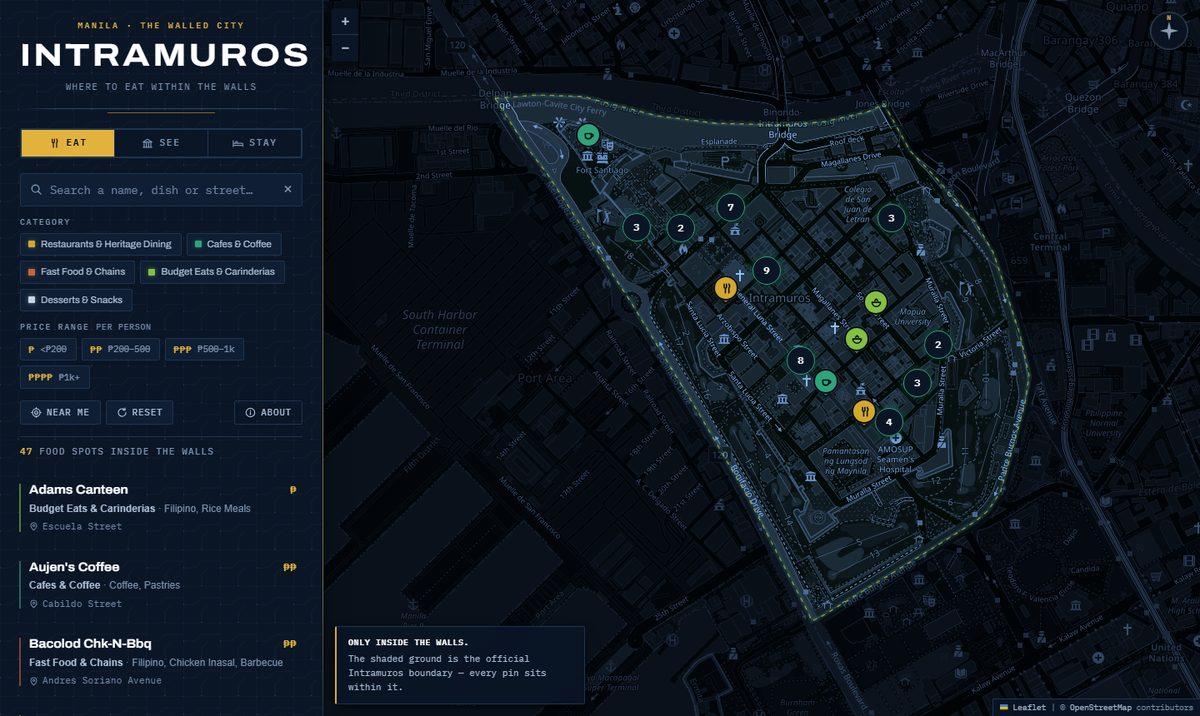
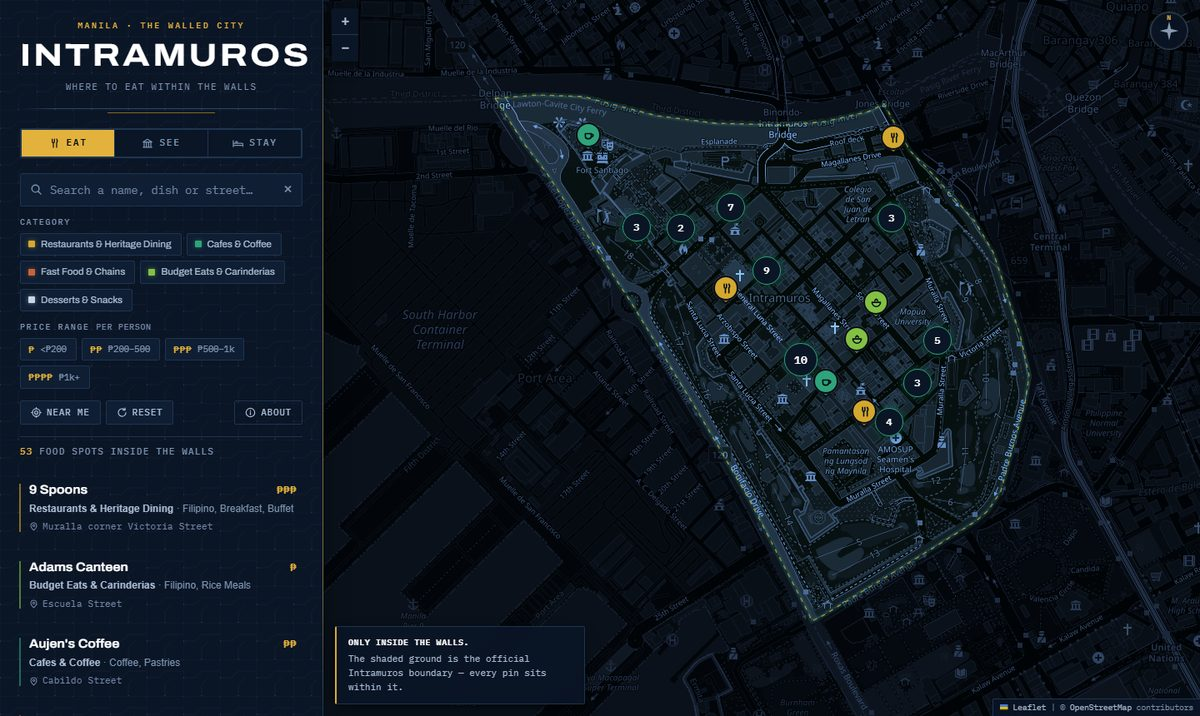
New Updates

diff --git a/data/food-spots.js b/data/food-spots.js
@@ -7,7 +7,10 @@
  * boundary polygon in data/intramuros-boundary.js.
  *
  * Coordinates and names come from an Overpass API query constrained to that
- * boundary (see DATA.md for the exact query). Nothing here was hand-placed.
+ * boundary (see DATA.md for the exact query), with a small number of manually
+ * researched additions — in-house restaurants at The Bayleaf hotel that have no
+ * separate OSM node and so share the hotel building's coordinates. Each such
+ * record says so in its blurb and is still gated by the same boundary check.
  *
  * Price tiers are INDICATIVE estimates, not quoted prices. See PRICE_TIERS below
  * and the methodology section of DATA.md.
@@ -39,6 +42,12 @@ const DATA_REVIEWED = '2026-09-03';
 
 const FOOD_SPOTS = [
   {
+    id: 'nine-spoons', name: '9 Spoons', category: 'heritage', priceTier: 3,
+    cuisine: ['Filipino', 'Breakfast', 'Buffet'], street: 'Muralla corner Victoria Street', area: 'The Bayleaf Intramuros, 9th floor',
+    lat: 14.590004, lng: 120.978725, osm: 'way/89568405 (9F)',
+    blurb: 'All-day dining restaurant on the top floor of The Bayleaf, serving Filipino heritage dishes — kare-kare, bagnet, sizzling bulalo — plus a weekday lunch buffet. Shares its coordinates with the hotel building; no separate OSM node exists for the restaurant itself.'
+  },
+  {
     id: 'adams-canteen', name: 'Adams Canteen', category: 'budget', priceTier: 1,
     cuisine: ['Filipino', 'Rice Meals'], street: 'Escuela Street', area: null,
     lat: 14.588943, lng: 120.977993, osm: 'node/1038225312',
@@ -63,16 +72,34 @@ const FOOD_SPOTS = [
     blurb: 'Filipino kitchen on the quieter western side of the walled city.'
   },
   {
+    id: 'bamboo-intramuros', name: 'Bamboo Intramuros', category: 'heritage', priceTier: 2,
+    cuisine: ['Filipino', 'Grill', 'Bar'], street: 'Magallanes Drive', area: null,
+    lat: 14.594598, lng: 120.977585, osm: 'node/6134921366',
+    blurb: 'Art-filled restaurant and bar on the northern edge of Intramuros — listed locally as Bambu Intramuros Art Bar and Restaurant — known for lechon kawali and cocktails amid bamboo-themed décor.'
+  },
+  {
     id: 'barbaras-casa-manila', name: "Barbara's Casa Manila", category: 'heritage', priceTier: 4,
     cuisine: ['Filipino', 'Buffet'], street: 'General Luna Street', area: 'Plaza San Luis Complex',
     lat: 14.589439, lng: 120.975215, osm: 'node/5938571786',
     blurb: 'Heritage buffet inside a Spanish-era mansion, with a Filipino cultural show at dinner.'
   },
   {
+    id: 'bataka-bar', name: 'Bataka Bar', category: 'heritage', priceTier: 2,
+    cuisine: ['Filipino', 'Bar'], street: 'General Luna Street', area: 'Plaza San Luis Complex',
+    lat: 14.589301, lng: 120.975319, osm: 'node/7138594047',
+    blurb: 'One of the dining spots inside the Plaza San Luis heritage complex, a few steps from Casa Manila, serving Filipino plates alongside its drinks list.'
+  },
+  {
     id: 'batala-ice-cream', name: 'Batala', category: 'dessert', priceTier: 1,
     cuisine: ['Ice Cream', 'Desserts'], street: 'San Jose Street', area: null,
     lat: 14.587318, lng: 120.977635, osm: 'node/12928095701',
-    blurb: 'Ice cream counter in the southern quarter of the walled city.'
+    blurb: 'Ice cream counter in the southern quarter of the walled city — a separate venue from Batala Bar below, despite the near-identical name.'
+  },
+  {
+    id: 'batala-bar', name: 'Batala Bar', category: 'heritage', priceTier: 2,
+    cuisine: ['Filipino', 'Craft Beer', 'Ice Cream'], street: 'General Luna Street', area: 'Plaza San Luis Complex',
+    lat: 14.589570, lng: 120.975060, osm: 'node/11710850483',
+    blurb: 'Craft beer bar and kitchen in the Plaza San Luis complex serving Filipino bar chow — crispy sisig, kare-kare, bagnet — alongside house-made ice cream and coffee, with vegan versions of several dishes.'
   },
   {
     id: 'beanleaf', name: 'Beanleaf', category: 'cafe', priceTier: 2,
@@ -130,9 +157,9 @@ const FOOD_SPOTS = [
   },
   {
     id: 'cioccolata', name: 'Cioccolata', category: 'dessert', priceTier: 2,
-    cuisine: ['Churros', 'Hot Chocolate', 'Desserts'], street: 'Muralla Street', area: 'The Bayleaf Hotel',
+    cuisine: ['Coffee', 'Churros', 'Hot Chocolate', 'Pastries'], street: 'Muralla Street', area: 'The Bayleaf Hotel',
     lat: 14.589866, lng: 120.978827, osm: 'node/6630882658',
-    blurb: 'Churros and thick hot chocolate at the foot of The Bayleaf hotel.'
+    blurb: 'Coffee, churros and pastries at the foot of The Bayleaf hotel — one of four in-house dining spots at the hotel, alongside 9 Spoons, Raffaele and Sky Deck View Bar.'
   },
   {
     id: 'club-intramuros', name: 'Club Intramuros', category: 'heritage', priceTier: 3,
@@ -279,6 +306,12 @@ const FOOD_SPOTS = [
     blurb: 'Grill house on Solana Street doing barbecue, chicken and rice plates.'
   },
   {
+    id: 'raffaele-woodfired-pizza', name: 'Raffaele Woodfired Pizza', category: 'heritage', priceTier: 2,
+    cuisine: ['Pizza', 'Italian'], street: 'Muralla corner Victoria Street', area: 'The Bayleaf Intramuros, 3rd floor',
+    lat: 14.590004, lng: 120.978725, osm: 'way/89568405 (3F)',
+    blurb: "Wood-fired pizza restaurant on The Bayleaf's third floor. Shares its coordinates with the hotel building; no separate OSM node exists for the restaurant itself."
+  },
+  {
     id: 'ristorante-delle-mitre', name: 'Ristorante delle Mitre', category: 'heritage', priceTier: 2,
     cuisine: ['Italian', 'Spanish', 'Filipino'], street: 'General Luna Street', area: 'Opposite San Agustin Church',
     lat: 14.589488, lng: 120.974704, osm: 'node/5421592625',
@@ -289,6 +322,12 @@ const FOOD_SPOTS = [
     cuisine: ['Filipino', 'Grill'], street: 'Victoria Street', area: null,
     lat: 14.589707, lng: 120.978639, osm: 'node/4524696228',
     blurb: 'Casual grill and Filipino plates on Victoria Street.'
+  },
+  {
+    id: 'sky-deck-view-bar', name: 'Sky Deck View Bar', category: 'heritage', priceTier: 3,
+    cuisine: ['Cocktails', 'Bar Snacks'], street: 'Muralla Street', area: 'The Bayleaf Hotel roof deck',
+    lat: 14.589941, lng: 120.978735, osm: 'node/13208384185',
+    blurb: 'Rooftop lounge atop The Bayleaf serving cocktails and bar snacks, with a view over the walls, the Intramuros golf course and the Manila Bay sunset.'
   },
   {
     id: 'starbucks-general-luna-south', name: 'Starbucks — General Luna (South)', category: 'cafe', priceTier: 2,

diff --git a/app.js b/app.js
@@ -128,14 +128,17 @@
     },
     stay: {
       label: 'Stay',
-      /* Only the three properties actually bookable by a traveller. The members-only
-         AMOSUP facilities and the student dormitories stay in HOTELS.md but off the
-         map — routing a delegate to a seafarers' dorm is a dead end. */
+      /* Only properties a traveller can both book AND compare on price. The
+         members-only AMOSUP facilities and the student dormitories stay in
+         HOTELS.md but off the map — routing a delegate to a seafarers' dorm is a
+         dead end. Residencia 729 is publicly bookable but has no verifiable rate
+         (see its record in data/hotels.js), so it's held back too: a hotel with
+         no price next to two priced ones leaves the user unable to decide. */
       items: HOTELS.filter(h => h.mapped),
       categories: STAY_CATEGORIES,
       tiers: STAY_TIERS,
       tierOf: h => h.priceTier,
-      hideCategoryFilter: true,      // one category, three items — a filter would be noise
+      hideCategoryFilter: true,      // one category, two items — a filter would be noise
       subtitle: 'Where to stay within the walls',
       placeholder: 'Search a name or street…',
       filterLegend: 'Nightly rate',

diff --git a/data/hotels.js b/data/hotels.js
@@ -96,7 +96,12 @@ const HOTELS = [
     id: 'residencia-729',
     name: 'Residencia 729',
     access: 'public',
-    mapped: true, category: 'stay',
+    /* Deliberately NOT mapped (no `mapped: true`, no `category`) — it is a real,
+       publicly-bookable property, but with no verifiable nightly rate a visitor has
+       nothing to decide on. Showing it on the Stay tab next to two priced hotels
+       would leave the user without the information they need. Documented here and
+       in HOTELS.md so it isn't lost, just not put in front of a traveller comparing
+       options. Revisit if a current rate is ever sourced. */
     lat: 14.589739, lng: 120.976733, osm: 'way/639239855',
     street: 'Santa Potenciana Street',
     area: 'Southern quarter, near Cabildo Street',

diff --git a/DATA.md b/DATA.md
@@ -1,13 +1,15 @@
 # Data & method
 
-How the **47 food spots** and **21 heritage sights** on this map were chosen, where the
+How the **53 food spots** and **21 heritage sights** on this map were chosen, where the
 numbers come from, and what you should and shouldn't trust.
 
 Accommodation is documented separately in [`HOTELS.md`](HOTELS.md); deployment in
 [`DEPLOY.md`](DEPLOY.md).
 
-The three **public** hotels from `HOTELS.md` are also shown on the map under the **Stay**
-tab (`mapped: true` in `data/hotels.js`). The members-only and long-stay properties stay
+Two of the three **public** hotels from `HOTELS.md` are also shown on the map under the
+**Stay** tab (`mapped: true` in `data/hotels.js`) — the third, Residencia 729, is open to
+travellers but has no verifiable rate, so it's held back rather than shown with a blank
+price (see `HOTELS.md` §"The headline finding"). The members-only and long-stay properties stay
 documented but off the map — they are not places a visitor can book, and offering walking
 directions to them would be misleading.
 
@@ -73,19 +75,26 @@ Run against `https://overpass-api.de/api/interpreter` (or the
 `https://overpass.kumi.systems/api/interpreter` mirror) on **2026-09-03**.
 
 - Returned **57** food and drink POIs.
-- **52** had a `name` tag and were kept. Five bar/nightlife venues were later removed
-  by request, leaving **47** — see §4.
-- **5** unnamed entries (3 `restaurant`, 2 `food_court`) were dropped — a map pin with no
-  name is no use to anyone.
+- **52** had a `name` tag and were kept. **5** unnamed entries (3 `restaurant`,
+  2 `food_court`) were dropped — a map pin with no name is no use to anyone.
+- Of those 52, a "bar and nightlife" pass in September 2026 briefly dropped five venues
+  wholesale. Four are back after individual review; see §4 for the corrected rule and
+  what actually happened to each one.
 
-Every `lat`/`lng` in `data/food-spots.js` is copied verbatim from that result. None were
-typed by hand or estimated from an address.
+Every `lat`/`lng` sourced this way in `data/food-spots.js` is copied verbatim from the
+Overpass result — none were typed by hand or estimated from an address. The exceptions are
+two in-house restaurants at The Bayleaf hotel that have no separate OSM node of their own
+(9 Spoons, Raffaele Woodfired Pizza); they share the hotel building's coordinates, which
+were independently verified inside the boundary as part of `data/hotels.js`. Both records
+say so in their `blurb`.
 
 ### Second, independent check
 
-All 52 coordinates were then reverse-geocoded through Nominatim. **All 52 came back with
-`address.quarter = "Intramuros"`** — a separate service, using a separate lookup path,
-agreeing with the polygon test.
+The original 52 Overpass-derived coordinates were reverse-geocoded through Nominatim.
+**All 52 came back with `address.quarter = "Intramuros"`** — a separate service, using a
+separate lookup path, agreeing with the polygon test. That set includes all five of the
+bar-category venues discussed in §4; the two Bayleaf in-house additions postdate that pass
+and rely on the hotel-building check described above instead.
 
 ---
 
@@ -116,46 +125,89 @@ Tiers were assigned from three sources, in order of preference:
 ### Why not exact peso figures per venue?
 
 Because they aren't available. Published prices could be verified for only a handful of
-these 47 establishments; several major Philippine food publications block automated
+these 53 establishments; several major Philippine food publications block automated
 access, and most independent Intramuros venues publish no menu pricing at all. Printing a
 specific range like "₱320–₱480" for a carinderia nobody has priced would present a guess
 as a fact. A labelled band is honest about its own precision.
 
 Every card and popup carries the review date and a "confirm with the venue" note.
 
-**Distribution:** 17 × `₱` · 27 × `₱₱` · 2 × `₱₱₱` · 1 × `₱₱₱₱`
+**Distribution:** 17 × `₱` · 31 × `₱₱` · 4 × `₱₱₱` · 1 × `₱₱₱₱`
 
 ---
 
 ## 4. Categories
 
-Five categories, each with its own marker colour. Specific cuisine lives in the `cuisine`
-tags (which search covers), not in the category name — so Parers Kimchi is filed under
-Restaurants with a `Korean` tag rather than needing a category of its own.
+Five categories, each with its own marker colour. There is **no "bar" or "nightlife"
+category** — that was tried and reverted; see below. Specific cuisine lives in the
+`cuisine` tags (which search covers), not in the category name — so Parers Kimchi is
+filed under Restaurants with a `Korean` tag rather than needing a category of its own.
 
 | Key | Label | Count |
 |---|---|---|
-| `heritage` | Restaurants & Heritage Dining | 12 |
+| `heritage` | Restaurants & Heritage Dining | 18 |
 | `cafe` | Cafés & Coffee | 17 |
 | `fastfood` | Fast Food & Chains | 7 |
 | `budget` | Budget Eats & Carinderias | 7 |
 | `dessert` | Desserts & Snacks | 4 |
 
-### Bars and nightlife were removed
+### The bar/nightlife pass — removed, then corrected
 
-The `bar` category and its five venues — Bamboo Intramuros, Bataka Bar, Batala Bar,
-Grotto Hookah Lounge and Sky Deck View Bar — were **deliberately removed** in September
-2026. The site serves a university conference audience of visiting researchers, for whom
-nightlife listings are off-brief. The food list went from 52 spots to 47.
+Two edits happened here in quick succession, and the second is the one that stands.
 
-Two knock-on edits went with it, so nothing dangles:
+**First**, a "bar and nightlife" category and its five venues — Bamboo Intramuros,
+Bataka Bar, Batala Bar, Grotto Hookah Lounge, Sky Deck View Bar — were removed wholesale,
+on the reasoning that a university-conference audience doesn't need nightlife listings.
 
-- "Batala (Ice Cream)" is now just **"Batala"**. The qualifier existed only to tell it
-  apart from Batala Bar, which is gone.
-- The Bayleaf's entry in `HOTELS.md` no longer cites Sky Deck as a food-map venue.
+**That was too broad.** Most of those five are dining venues that happen to serve drinks,
+not drinking venues that happen to serve food, and the wholesale cut took them out along
+with anything genuinely nightlife-only. The corrected rule, applied venue by venue:
 
-Restoring the category means re-running the Overpass query in §2 with `bar` and `pub` in
-the amenity list, and re-adding a `bar` entry to `CATEGORIES`.
+> Remove hardcore discos and nightclubs — venues built around dancing, drinking or smoking
+> with no real food. Keep restaurants that include a bar as a secondary feature. Do not
+> create a bar/nightlife category at all — a kept venue just goes in `heritage` like any
+> other restaurant.
+
+Applying that rule to each of the five, independently verified rather than assumed:
+
+| Venue | Verdict | Why |
+|---|---|---|
+| **Bamboo Intramuros** | Restored | Full name is "Bambu Intramuros Art Bar **and Restaurant**" — Filipino menu (lechon kawali) confirmed independently of OSM. |
+| **Bataka Bar** | Restored | Independently confirmed as "one of the dining establishments" inside the Plaza San Luis heritage complex. |
+| **Batala Bar** | Restored | Full sit-down menu confirmed — appetizers, mains, pasta, seafood, vegan options, a ₱440 crispy pork bagnet — plus its own ice cream and coffee. Clearly a restaurant, not a bar. |
+| **Sky Deck View Bar** | Restored | Confirmed via The Bayleaf's own restaurants page: "cocktails and bar snacks" — food is stated, even if minor. See the Bayleaf addition below. |
+| **Grotto Hookah Lounge** | **Stays out** | A shisha lounge with no food offering found anywhere. This is the "hardcore bar" case the corrected rule is written to exclude — smoking and drinks, no dining. |
+
+Four of five came back. The one that didn't is excluded on the same evidence standard as
+everything else on this map — verified, not assumed — rather than by category.
+
+One knock-on note: "Batala" (ice cream) and "Batala Bar" are two different venues roughly
+250 m apart, distinguished only by that one word. Both are back on the map — see the name
+carefully.
+
+### The Bayleaf's other restaurants
+
+While re-checking Sky Deck View Bar against The Bayleaf's own restaurants page
+(`thebayleaf.com.ph/intramuros/restaurants/`), three more of the hotel's dining venues
+came to light and are now on the map alongside Cioccolata, which was already listed:
+
+- **9 Spoons** — the hotel's all-day dining restaurant, 9th floor. Filipino heritage
+  dishes (kare-kare, bagnet, sizzling bulalo), a weekday lunch buffet at ≈₱780, and the
+  hotel's breakfast service. Dish prices ₱500–₱1,000 → tier `₱₱₱`.
+- **Raffaele Woodfired Pizza** — 3rd floor, wood-fired pizza, ₱200–₱900 per pie →
+  tier `₱₱` for a typical single order.
+- **Sky Deck View Bar** — see above.
+
+Neither 9 Spoons nor Raffaele has its own OSM node — Overpass has no record of them as
+separate points, only the hotel building itself. Both records use the hotel's own
+coordinates (already verified inside the boundary) and say so plainly in their `blurb`.
+Their `osm` field is suffixed `(9F)` / `(3F)` rather than left identical, so the schema's
+duplicate-reference check still catches a real accidental duplicate if one is ever
+introduced — it isn't disabled, just correctly not tripped by an intentional case.
+
+The source page listed no pricing for any of its four venues; Raffaele's and 9 Spoons'
+figures above came from a separate search of menu and review sources, cited in each
+record's data.
 
 ### Editorial decisions worth knowing
 

diff --git a/HOTELS.md b/HOTELS.md
@@ -8,7 +8,8 @@ administrative boundary (OSM relation `103707`) — the same polygon the food ma
 
 ## The headline finding
 
-**Only three properties inside the walls are open to travellers.**
+**Only three properties inside the walls are open to travellers — and the map shows two
+of them.**
 
 Booking aggregators advertise "201 hotels in Intramuros" and similar. They are counting a
 radius, not the district — those lists are dominated by Ermita, Malate, Binondo and Rizal
@@ -18,11 +19,19 @@ query constrained to relation `103707` returns **8 accommodation POIs**, of whic
 | | Count | |
 |---|---|---|
 | Open to travellers | **3** | The Bayleaf, White Knight, Residencia 729 |
+| — shown on the interactive map | **2** | The Bayleaf, White Knight |
 | Members only | 3 | AMOSUP seafarers' union facilities |
 | Student / long-stay | 2 | Dormitory and boarding house |
 
 The commonly cited "only hotel in Intramuros" claim for The Bayleaf is close but not
 exact — it is the only *full-service* hotel; White Knight is a genuine second option.
+
+**Residencia 729 is open to travellers but not on the map.** It's real, it's public, and
+it's inside the boundary — but no current nightly rate exists anywhere online (see its
+entry below). A hotel card with no price next to two with real prices doesn't help anyone
+decide; it just sits there unusable. It stays fully documented here, and `data/hotels.js`
+keeps its record — just without the `mapped: true` flag that puts a pin on the Stay tab.
+If a rate ever surfaces, flipping that one flag is all it takes to add it back.
 
 ---
 
@@ -49,7 +58,7 @@ USD-sourced figures are converted at **₱62.50 / US$1** (rate as of 2026-09-02)
 | **Price range** | **≈ ₱2,800 – ₱13,300 per night.** From about ₱2,765 for a Superior; typical standard room ₱4,000 – ₱9,100; Bayleaf Suite reaches roughly ₱13,000 |
 | **Room types** | 57 rooms in 7 categories — Superior Twin (23 sqm) · Deluxe Twin / Queen / King (25 sqm) · Premier Trio (31 sqm) · Executive Suite (45 sqm) · Bayleaf Suite (135 sqm) |
 | **Booking / contact** | [thebayleaf.com.ph/intramuros](https://www.thebayleaf.com.ph/intramuros/) · +63 2 5318 5000 / 5328 3170 · tbi-inquiry@thebayleaf.com.ph |
-| **Notes** | Operated by Lyceum of the Philippines University. Houses Cioccolata, which appears on the food map. |
+| **Notes** | Operated by Lyceum of the Philippines University. Houses four in-house dining spots that appear on the food map — Cioccolata, 9 Spoons, Raffaele Woodfired Pizza and Sky Deck View Bar. |
 | **Price sourced from** | Hotel's own reservation page ("rates from ₱2,765"); aggregator listings US$46–US$213 |
 
 ### White Knight Hotel Intramuros

diff --git a/README.md b/README.md
@@ -17,9 +17,9 @@ directions to any of it.
 
 | Tab | Contents |
 |---|---|
-| **Eat** | **47** restaurants, cafés, carinderias and fast-food branches, with price ranges |
+| **Eat** | **53** restaurants, cafés, carinderias, fast-food branches and hotel dining rooms, with price ranges |
 | **See** | **21** heritage sights, with entrance fees, opening hours and realistic visit times |
-| **Stay** | **3** hotels — every property inside the walls that a traveller can actually book |
+| **Stay** | **2** hotels — the properties inside the walls with both a public booking path and a real price. (A third, Residencia 729, is bookable but has no published rate — see `HOTELS.md`.) |
 
 Plus **walking directions** to any of them, from your location, a tapped point, or one of
 six arrival presets.
@@ -49,7 +49,7 @@ node tools/verify-in-intramuros.mjs
 ```
 
 ```
-  1. Location — is every spot inside Intramuros?      47/47 PASS
+  1. Location — is every spot inside Intramuros?      53/53 PASS
   2. Schema — is every record well formed?            PASS
   3. Tourist spots — is every sight inside?           21/21 PASS
   4. Accommodation — is every property inside?         8/8  PASS
@@ -120,7 +120,7 @@ styles.css                      design system, responsive layout, map + popup st
 app.js                          modes, markers, search, filters, list↔map sync, directions
 routing.js                      OSRM client + walking-instruction renderer
 
-data/food-spots.js              47 food spots  · PRICE_TIERS, CATEGORIES
+data/food-spots.js              53 food spots  · PRICE_TIERS, CATEGORIES
 data/tourist-spots.js           21 sights      · FEE_TIERS, VENUE_ANCHOR, passport info
 data/hotels.js                  8 properties   · 3 flagged `mapped` for the Stay tab
 data/start-points.js            6 arrival points for directions
@@ -160,7 +160,7 @@ Names and coordinates come from **OpenStreetMap** via the Overpass API, retrieve
 - **Entrance fees** are from the Intramuros Administration and site operators — published
   and reasonably stable. There's also a ₱350 **Intramuros Passport** covering five sites,
   which the See tab surfaces once it's worth buying.
-- **Restaurant prices are indicative estimates, not quotes.** Only a handful of the 47
+- **Restaurant prices are indicative estimates, not quotes.** Only a handful of the 53
   publish menu pricing, so each gets a tier plus an explicit peso band and a review date.
   Presenting a guess as an exact figure would be worse than an honest range.
 - **Hotel rates are a dated snapshot, not live pricing.** Nightly rates move daily.

diff --git a/DEPLOY.md b/DEPLOY.md
@@ -45,7 +45,7 @@ loading it at `/MIRC-2026-Interactive-Intramuros-Food-Map-Guide/`:
 
 - **Every asset path is relative** — `styles.css`, `app.js`, `data/food-spots.js`, and so
   on. Nothing starts with `/`, so the site works at a project subpath, not just at a
-  domain root. All 47 food spots, 21 sights, 3 hotels, map tiles and directions loaded
+  domain root. All 53 food spots, 21 sights, 2 mapped hotels, map tiles and directions loaded
   with no console errors and no failed requests.
 - **`.nojekyll`** is committed at the repo root. Nothing here would actually trip Jekyll
   today, but the file skips the Jekyll build entirely — slightly faster deploys and no
@@ -94,7 +94,7 @@ directions. This is tested — see `dirs.py` in the test notes, or block
 Open the live URL and confirm:
 
 - [ ] The map loads with tiles and pins (not a blank navy rectangle).
-- [ ] All three tabs work: **Eat** 47, **See** 21, **Stay** 3.
+- [ ] All three tabs work: **Eat** 53, **See** 21, **Stay** 2.
 - [ ] Clicking a marker opens a popup with a **Get directions** button.
 - [ ] Directions from a preset return a real route with steps and a distance.
 - [ ] **My location** now prompts for permission and works (this is the HTTPS-only one).
